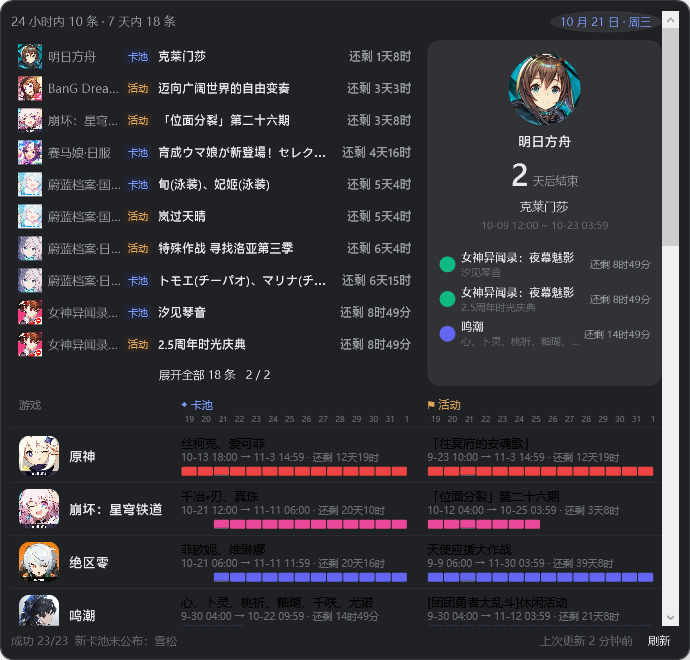
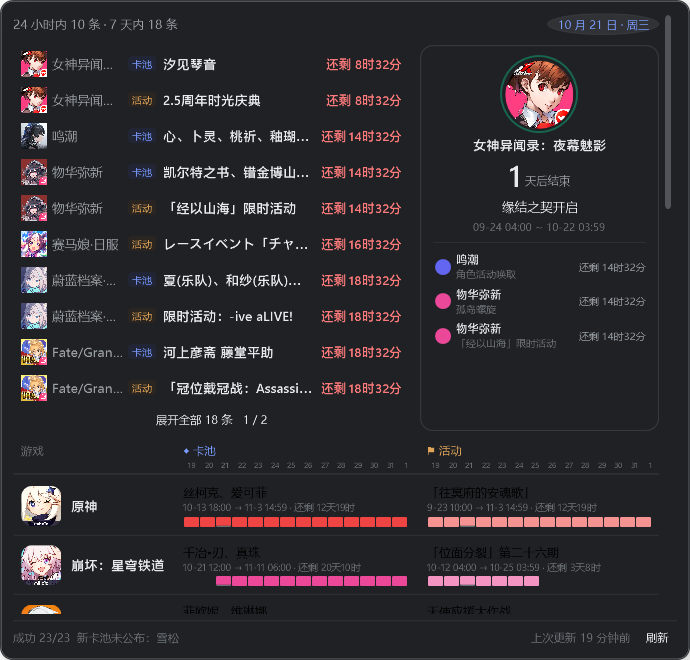
style: v0.1.18 字体、间距与截图链路精修
- 统一 Segoe UI Variable/雅黑回退；Display 渲染、布局取整、像素对齐
- newPanel 行高/焦点卡/表格/条形/底栏重排；独立细滚动条
- 截图链路修复 capture 模式隐藏窗口、隐藏窗口先 Show；更新 100/150 截图
- 版本 0.1.18

验证：dotnet build 0 警告 0 错误；npm test 34/34；npm run check 通过

diff --git a/src/GachaCalendar/Views/ScheduleView.xaml b/src/GachaCalendar/Views/ScheduleView.xaml
@@ -1,8 +1,67 @@
 <UserControl x:Class="GachaCalendar.Views.ScheduleView"
 			 xmlns="http://schemas.microsoft.com/winfx/2006/xaml/presentation"
 			 xmlns:x="http://schemas.microsoft.com/winfx/2006/xaml"
-			 FontFamily="Microsoft YaHei UI, Segoe UI, sans-serif">
+			 UseLayoutRounding="True"
+			 SnapsToDevicePixels="True"
+			 TextOptions.TextFormattingMode="Display"
+			 TextOptions.TextRenderingMode="ClearType"
+			 FontFamily="Segoe UI Variable Text, Microsoft YaHei UI, Segoe UI">
 	<UserControl.Resources>
+		<Style x:Key="SchedThinScrollBar" TargetType="ScrollBar">
+			<Setter Property="Width" Value="8" />
+			<Setter Property="Background" Value="Transparent" />
+			<Setter Property="Template">
+				<Setter.Value>
+					<ControlTemplate TargetType="ScrollBar">
+						<Grid Width="8" Background="Transparent">
+							<Track x:Name="PART_Track" IsDirectionReversed="True" Orientation="Vertical">
+								<Track.DecreaseRepeatButton>
+									<RepeatButton Command="{x:Static ScrollBar.PageUpCommand}" Opacity="0" Focusable="False" />
+								</Track.DecreaseRepeatButton>
+								<Track.Thumb>
+									<Thumb Width="8">
+										<Thumb.Template>
+											<ControlTemplate TargetType="Thumb">
+												<Border Background="{DynamicResource FgFaint}" CornerRadius="4" Opacity="0.65" Margin="1,2" />
+											</ControlTemplate>
+										</Thumb.Template>
+									</Thumb>
+								</Track.Thumb>
+								<Track.IncreaseRepeatButton>
+									<RepeatButton Command="{x:Static ScrollBar.PageDownCommand}" Opacity="0" Focusable="False" />
+								</Track.IncreaseRepeatButton>
+							</Track>
+						</Grid>
+					</ControlTemplate>
+				</Setter.Value>
+			</Setter>
+		</Style>
+		<Style x:Key="SchedScrollViewer" TargetType="ScrollViewer">
+			<Setter Property="Template">
+				<Setter.Value>
+					<ControlTemplate TargetType="ScrollViewer">
+						<Grid>
+							<Grid.ColumnDefinitions>
+								<ColumnDefinition Width="*" />
+								<ColumnDefinition Width="Auto" />
+							</Grid.ColumnDefinitions>
+							<ScrollContentPresenter x:Name="PART_ScrollContentPresenter" Grid.Column="0"
+													Margin="{TemplateBinding Padding}"
+													Content="{TemplateBinding Content}"
+													ContentTemplate="{TemplateBinding ContentTemplate}"
+													CanContentScroll="{TemplateBinding CanContentScroll}" />
+							<ScrollBar x:Name="PART_VerticalScrollBar" Grid.Column="1" Width="8"
+									   Orientation="Vertical" Cursor="Arrow"
+									   Style="{StaticResource SchedThinScrollBar}"
+									   Value="{Binding VerticalOffset, RelativeSource={RelativeSource TemplatedParent}, Mode=OneWay}"
+									   Maximum="{TemplateBinding ScrollableHeight}"
+									   ViewportSize="{TemplateBinding ViewportHeight}"
+									   Visibility="{TemplateBinding ComputedVerticalScrollBarVisibility}" />
+						</Grid>
+					</ControlTemplate>
+				</Setter.Value>
+			</Setter>
+		</Style>
 		<Style x:Key="SchedHint" TargetType="TextBlock">
 			<Setter Property="FontSize" Value="11" />
 			<Setter Property="Foreground" Value="{DynamicResource FgFaint}" />
@@ -22,6 +81,7 @@
 			<Setter Property="Foreground" Value="{DynamicResource FgDim}" />
 			<Setter Property="FontSize" Value="11" />
 			<Setter Property="Cursor" Value="Hand" />
+			<Setter Property="Focusable" Value="False" />
 			<Setter Property="Template">
 				<Setter.Value>
 					<ControlTemplate TargetType="Button">
@@ -39,16 +99,16 @@
 		</Style>
 	</UserControl.Resources>
 
-	<Grid Margin="10,10,10,8">
+	<Grid Margin="12,12,12,10">
 		<Grid.RowDefinitions>
 			<RowDefinition Height="*" />
 			<RowDefinition Height="Auto" />
 		</Grid.RowDefinitions>
 
-		<ScrollViewer Grid.Row="0" VerticalScrollBarVisibility="Auto" HorizontalScrollBarVisibility="Disabled">
+		<ScrollViewer Grid.Row="0" Style="{StaticResource SchedScrollViewer}" VerticalScrollBarVisibility="Auto" HorizontalScrollBarVisibility="Disabled">
 			<StackPanel>
 				<!-- 头部：总览 + 日期胶囊 -->
-				<Grid Margin="0,0,0,8">
+				<Grid Margin="0,0,0,10">
 					<TextBlock Text="{Binding GlanceText}" FontSize="12" Foreground="{DynamicResource FgDim}"
 							   VerticalAlignment="Center" />
 					<Border HorizontalAlignment="Right" Background="{DynamicResource ChipBg}" BorderBrush="{DynamicResource PanelBorder}"
@@ -60,14 +120,14 @@
 				<!-- 近期 + 悬停详情卡 -->
 				<Grid Margin="0,0,0,10">
 					<Grid.ColumnDefinitions>
-						<ColumnDefinition Width="64*" />
-						<ColumnDefinition Width="36*" />
+						<ColumnDefinition Width="63*" />
+						<ColumnDefinition Width="37*" />
 					</Grid.ColumnDefinitions>
 					<StackPanel Grid.Column="0" Margin="0,0,10,0" MouseEnter="OnUrgentAreaEnter" MouseLeave="OnUrgentAreaLeave">
 						<ItemsControl ItemsSource="{Binding Urgent}">
 							<ItemsControl.ItemTemplate>
 								<DataTemplate>
-									<Border Padding="6,4" CornerRadius="10" MouseEnter="OnUrgentEnter"
+									<Border Padding="8,5" CornerRadius="10" MouseEnter="OnUrgentEnter"
 											ToolTip="{Binding Tip}">
 										<Border.Style>
 											<Style TargetType="Border">
@@ -115,7 +175,7 @@
 													</Image.Style>
 												</Image>
 											</Grid>
-											<TextBlock Grid.Column="1" Text="{Binding GameName}" FontSize="12"
+											<TextBlock Grid.Column="1" Text="{Binding GameName}" FontSize="12.5"
 													   Foreground="{DynamicResource FgDim}" VerticalAlignment="Center"
 													   TextTrimming="CharacterEllipsis" Margin="5,0,0,0" />
 											<Border Grid.Column="2" CornerRadius="4" Padding="4,1" Margin="3,0" VerticalAlignment="Center">
@@ -156,10 +216,10 @@
 													</TextBlock>
 												</Grid>
 											</Border>
-											<TextBlock Grid.Column="3" Text="{Binding Show}" FontSize="12" FontWeight="SemiBold"
+											<TextBlock Grid.Column="3" Text="{Binding Show}" FontSize="13" FontWeight="SemiBold"
 													   VerticalAlignment="Center" Margin="3,0" TextTrimming="CharacterEllipsis"
 													   ToolTip="{Binding Tip}" />
-											<TextBlock Grid.Column="4" Text="{Binding WhenText}" FontSize="12" FontWeight="SemiBold"
+											<TextBlock Grid.Column="4" Text="{Binding WhenText}" FontSize="12.5" FontWeight="SemiBold"
 													   VerticalAlignment="Center" Margin="6,0,0,0">
 												<TextBlock.Style>
 													<Style TargetType="TextBlock">
@@ -196,12 +256,12 @@
 					</StackPanel>
 
 					<!-- 下一个截止卡（悬停近期行时切换） -->
-					<Border Grid.Column="1" Background="{DynamicResource ChipBg}" BorderBrush="{DynamicResource PanelBorder}"
-							BorderThickness="1" CornerRadius="12" Padding="10" VerticalAlignment="Stretch">
+					<Border Grid.Column="1" Background="{DynamicResource PanelBg}" BorderBrush="{DynamicResource PanelBorder}"
+							BorderThickness="1" CornerRadius="12" Padding="12" VerticalAlignment="Stretch">
 						<StackPanel>
-							<Grid Width="64" Height="64" HorizontalAlignment="Center" Margin="0,2,0,0">
+							<Grid Width="68" Height="68" HorizontalAlignment="Center" Margin="0,2,0,0">
 								<Ellipse Stroke="{Binding Focus.GameColor}" StrokeThickness="2" Opacity="0.45" Margin="-5" />
-								<Border CornerRadius="32" Background="{Binding Focus.GameColor}">
+								<Border CornerRadius="34" Background="{Binding Focus.GameColor}">
 									<Border.Style>
 										<Style TargetType="Border">
 											<Setter Property="Visibility" Value="Visible" />
@@ -212,7 +272,7 @@
 											</Style.Triggers>
 										</Style>
 									</Border.Style>
-									<TextBlock Text="{Binding Focus.IconGlyph}" FontSize="22" Foreground="White"
+									<TextBlock Text="{Binding Focus.IconGlyph}" FontSize="23" Foreground="White"
 											   HorizontalAlignment="Center" VerticalAlignment="Center" />
 								</Border>
 								<Image Source="{Binding Focus.Icon}" Stretch="UniformToFill">
@@ -227,20 +287,20 @@
 										</Style>
 									</Image.Style>
 									<Image.Clip>
-										<EllipseGeometry Center="32,32" RadiusX="32" RadiusY="32" />
+										<EllipseGeometry Center="34,34" RadiusX="34" RadiusY="34" />
 									</Image.Clip>
 								</Image>
 							</Grid>
-							<TextBlock Text="{Binding FocusGameName}" FontSize="13" FontWeight="SemiBold" HorizontalAlignment="Center"
+							<TextBlock Text="{Binding FocusGameName}" FontSize="13.5" FontWeight="SemiBold" HorizontalAlignment="Center"
 									   Margin="0,7,0,0" TextTrimming="CharacterEllipsis" />
 							<StackPanel Orientation="Horizontal" HorizontalAlignment="Center" Margin="0,2,0,0">
-								<TextBlock Text="{Binding Focus.FocusNumber}" FontSize="28" FontWeight="SemiBold" />
+								<TextBlock Text="{Binding Focus.FocusNumber}" FontSize="30" FontWeight="SemiBold" />
 								<TextBlock Text="{Binding Focus.FocusUnit}" FontSize="11" Foreground="{DynamicResource FgDim}"
 										   VerticalAlignment="Bottom" Margin="4,0,0,5" />
 							</StackPanel>
-							<TextBlock Text="{Binding FocusTitle}" FontSize="12" TextAlignment="Center" TextWrapping="Wrap"
-									   Margin="0,5,0,0" MaxHeight="34" />
-							<TextBlock Text="{Binding FocusDates}" FontSize="10" Foreground="{DynamicResource FgFaint}"
+							<TextBlock Text="{Binding FocusTitle}" FontSize="12.5" TextAlignment="Center" TextWrapping="Wrap"
+									   Margin="0,5,0,0" MaxHeight="36" />
+							<TextBlock Text="{Binding FocusDates}" FontSize="10.5" Foreground="{DynamicResource FgFaint}"
 									   TextAlignment="Center" TextWrapping="Wrap" Margin="0,4,0,0" />
 							<Separator Margin="0,8,0,6" Background="{DynamicResource Divider}" />
 							<ItemsControl ItemsSource="{Binding FocusOthers}">
@@ -336,7 +396,7 @@
 				<ItemsControl ItemsSource="{Binding Rows}">
 					<ItemsControl.ItemTemplate>
 						<DataTemplate>
-							<Border BorderBrush="{DynamicResource Divider}" BorderThickness="0,0,0,1" Padding="0,6">
+							<Border BorderBrush="{DynamicResource Divider}" BorderThickness="0,0,0,1" Padding="0,8">
 								<Border.Style>
 									<Style TargetType="Border">
 										<Style.Triggers>
@@ -397,7 +457,7 @@
 											<ItemsControl.ItemsPanel><ItemsPanelTemplate><UniformGrid Columns="14" /></ItemsPanelTemplate></ItemsControl.ItemsPanel>
 											<ItemsControl.ItemTemplate>
 												<DataTemplate>
-													<Border Height="9" Margin="0.5,0">
+													<Border Height="10" Margin="0.5,0">
 														<Border.Style>
 															<Style TargetType="Border">
 																<Setter Property="Background" Value="Transparent" />
@@ -428,7 +488,7 @@
 											<ItemsControl.ItemsPanel><ItemsPanelTemplate><UniformGrid Columns="14" /></ItemsPanelTemplate></ItemsControl.ItemsPanel>
 											<ItemsControl.ItemTemplate>
 												<DataTemplate>
-													<Border Height="9" Margin="0.5,0">
+													<Border Height="10" Margin="0.5,0">
 														<Border.Style>
 															<Style TargetType="Border">
 																<Setter Property="Background" Value="Transparent" />
@@ -484,18 +544,20 @@
 		</ScrollViewer>
 
 		<!-- 底栏常驻 -->
-		<Grid Grid.Row="1" Margin="0,4,0,0">
-			<Grid.ColumnDefinitions>
-				<ColumnDefinition Width="*" />
-				<ColumnDefinition Width="Auto" />
-				<ColumnDefinition Width="Auto" />
-			</Grid.ColumnDefinitions>
-			<TextBlock Text="{Binding ScrapeText}" FontSize="11" Foreground="{DynamicResource FgFaint}"
-					   TextTrimming="CharacterEllipsis" VerticalAlignment="Center" />
-			<TextBlock Grid.Column="1" Text="{Binding UpdatedAgo}" FontSize="11" Foreground="{DynamicResource FgFaint}"
-					   VerticalAlignment="Center" Margin="8,0" />
-			<Button Grid.Column="2" Content="刷新" Style="{StaticResource SchedLinkButton}" Click="OnRefresh"
-					Foreground="{DynamicResource Accent}" />
-		</Grid>
+		<Border Grid.Row="1" Margin="0,6,0,0" Padding="0,6,0,0" BorderBrush="{DynamicResource Divider}" BorderThickness="0,1,0,0">
+			<Grid>
+				<Grid.ColumnDefinitions>
+					<ColumnDefinition Width="*" />
+					<ColumnDefinition Width="Auto" />
+					<ColumnDefinition Width="Auto" />
+				</Grid.ColumnDefinitions>
+				<TextBlock Text="{Binding ScrapeText}" FontSize="11" Foreground="{DynamicResource FgFaint}"
+						   TextTrimming="CharacterEllipsis" VerticalAlignment="Center" />
+				<TextBlock Grid.Column="1" Text="{Binding UpdatedAgo}" FontSize="11" Foreground="{DynamicResource FgFaint}"
+						   VerticalAlignment="Center" Margin="8,0" />
+				<Button Grid.Column="2" Content="刷新" Style="{StaticResource SchedLinkButton}" Click="OnRefresh"
+						Foreground="{DynamicResource Accent}" />
+			</Grid>
+		</Border>
 	</Grid>
 </UserControl>

diff --git a/src/GachaCalendar/Views/SettingsWindow.xaml b/src/GachaCalendar/Views/SettingsWindow.xaml
@@ -5,9 +5,13 @@
 		Width="780" Height="780"
 		MinWidth="720" MinHeight="600"
 		WindowStartupLocation="CenterScreen"
+		UseLayoutRounding="True"
+		SnapsToDevicePixels="True"
+		TextOptions.TextFormattingMode="Display"
+		TextOptions.TextRenderingMode="ClearType"
 		Background="{DynamicResource PanelBg}"
 		Foreground="{DynamicResource Fg}"
-		FontFamily="Microsoft YaHei UI, Segoe UI, sans-serif">
+		FontFamily="Segoe UI Variable Text, Microsoft YaHei UI, Segoe UI">
 	<Window.Resources>
 		<Style x:Key="Card" TargetType="Border">
 			<Setter Property="Background" Value="{DynamicResource ChipBg}" />

diff --git a/src/GachaCalendar/Views/FlyoutWindow.xaml b/src/GachaCalendar/Views/FlyoutWindow.xaml
@@ -12,7 +12,11 @@
 		Topmost="True"
 		ResizeMode="NoResize"
 		WindowStartupLocation="Manual"
-		FontFamily="Microsoft YaHei UI, Segoe UI, sans-serif">
+		UseLayoutRounding="True"
+		SnapsToDevicePixels="True"
+		TextOptions.TextFormattingMode="Display"
+		TextOptions.TextRenderingMode="ClearType"
+		FontFamily="Segoe UI Variable Text, Microsoft YaHei UI, Segoe UI">
 	<Window.Resources>
 		<Style x:Key="DshIconButton" TargetType="Button">
 			<Setter Property="Width" Value="24" />

diff --git a/src/GachaCalendar/Views/DockStripWindow.xaml b/src/GachaCalendar/Views/DockStripWindow.xaml
@@ -12,6 +12,11 @@
 		ShowActivated="False"
 		Topmost="True"
 		WindowStartupLocation="Manual"
+		UseLayoutRounding="True"
+		SnapsToDevicePixels="True"
+		TextOptions.TextFormattingMode="Display"
+		TextOptions.TextRenderingMode="ClearType"
+		FontFamily="Segoe UI Variable Text, Microsoft YaHei UI, Segoe UI"
 		Focusable="False">
 	<Border x:Name="Shell"
 			CornerRadius="13"

diff --git a/src/GachaCalendar/App.xaml.cs b/src/GachaCalendar/App.xaml.cs
@@ -20,6 +20,7 @@ public partial class App : System.Windows.Application
 	public MainViewModel Vm { get; } = new();
 	public string? CurrentDataPath { get; private set; }
 	public EngineHostClient? Engine => _engine;
+	public bool IsCaptureMode { get; private set; }
 
 	private readonly SettingsStore _settingsStore = new();
 	private SnapshotStore? _snapshots;
@@ -96,7 +97,10 @@ public partial class App : System.Windows.Application
 		if (e.Args.Contains("--show-settings")) ScheduleSettings(2500);
 		var captureIndex = Array.IndexOf(e.Args, "--capture-ui");
 		if (captureIndex >= 0 && captureIndex + 1 < e.Args.Length)
+		{
+			IsCaptureMode = true;
 			ScheduleUiCapture(e.Args[captureIndex + 1]);
+		}
 	}
 
 	private void ScheduleUiCapture(string outDir)
@@ -123,6 +127,11 @@ public partial class App : System.Windows.Application
 
 	private static void CaptureWindow(Window window, string outDir, string prefix)
 	{
+		if (!window.IsVisible)
+		{
+			window.Show();
+			window.Activate();
+		}
 		window.UpdateLayout();
 		var width = window.ActualWidth;
 		var height = window.ActualHeight;

diff --git a/src/GachaCalendar/Views/FlyoutWindow.xaml.cs b/src/GachaCalendar/Views/FlyoutWindow.xaml.cs
@@ -25,7 +25,7 @@ public partial class FlyoutWindow : Window
 		};
 		Deactivated += (_, _) =>
 		{
-			if (App.Instance is { IsShuttingDown: false } && IsVisible) Hide();
+			if (App.Instance is { IsShuttingDown: false, IsCaptureMode: false } && IsVisible) Hide();
 		};
 		PreviewKeyDown += (_, e) =>
 		{

diff --git a/docs/04-路线图.md b/docs/04-路线图.md
@@ -192,7 +192,16 @@ Fluent/DSH 风格外观已列入 [BACKLOG.md](../BACKLOG.md)。
 - [x] 设置页下拉项内边距
 - [ ] 同格多档期探头展开
 
-## v0.1.18 · 任务栏体验打磨
+## v0.1.18 · 字体与间距精修（2026-10-21）
+
+- [x] 统一 Segoe UI Variable + 雅黑回退；Display 渲染/布局取整/像素对齐
+- [x] newPanel 行高、焦点卡白底细环、表格行距、条形加粗、底栏分隔
+- [x] newPanel 独立细滚动条（深色）
+- [x] 截图工具修复（capture 模式不隐藏、隐藏窗口先 Show）
+- [x] 更新浅/深 newPanel、主面板、设置页 100/150 截图
+- [ ] 同格多档期探头展开
+
+## v0.1.19 · 任务栏体验打磨
 
 - [ ] 多显示器：主屏 / 每屏一份（设置项）
 - [ ] 任务栏自动隐藏时跟随（贴屏幕边缘而非消失）
@@ -202,7 +211,7 @@ Fluent/DSH 风格外观已列入 [BACKLOG.md](../BACKLOG.md)。
 - [ ] 点击外部关闭面板、Esc、快捷键（可选 Win+Alt+G）
 - [ ] 电源/锁屏/睡眠恢复后的任务栏重定位
 
-## v0.1.19 · 分发工程化
+## v0.1.20 · 分发工程化
 
 - [ ] `publish` 脚本：自包含 single-file zip + 框架依赖 zip
 - [ ] 安装包（Inno Setup 或 MSIX）：开始菜单、卸载清理自启项
@@ -211,7 +220,7 @@ Fluent/DSH 风格外观已列入 [BACKLOG.md](../BACKLOG.md)。
 - [ ] 性能预算：空闲内存 ≤ 120MB、CPU ≤ 0.1%、启动 ≤ 2s
 - [ ] 首次运行引导：数据从哪来、如何刷新、如何关掉原生小组件避免重叠
 
-## v0.1.20 · 商店与打磨
+## v0.1.21 · 商店与打磨
 
 - [ ] 代码签名（SmartScreen）
 - [ ] Microsoft Store / MSIX 上架评估

diff --git a/CHANGELOG.md b/CHANGELOG.md
@@ -1,5 +1,14 @@
 # CHANGELOG
 
+## v0.1.18 · 2026-10-21
+
+- 字体渲染精修：主面板/newPanel/设置/常驻条统一 Segoe UI Variable + 雅黑回退，
+  开启 Display 文本渲染、布局取整与设备像素对齐
+- newPanel 间距/层级重排：近期行更高、焦点卡白底+细环、表格行距/条形加粗、底栏分隔线
+- newPanel 使用独立细滚动条，深色下不再出现系统浅色滚动条
+- 截图工具修复：capture 模式不自动隐藏窗口；隐藏窗口先 Show 再渲染，100/150 截图不再空白
+- 更新浅/深 newPanel、主面板、设置页截图；版本 0.1.18
+
 ## v0.1.17 · 2026-10-21
 
 - newPanel 焦点卡图标外圈加主题色细环，层级更清晰

diff --git a/README.md b/README.md
@@ -50,7 +50,7 @@
 | 深浅色 token / 视觉验收清单 | ✅ v0.1.10（[验收清单](docs/11-DSH面板复刻验收.md)） |
 | 实验性 newPanel（日程视图） | 🚧 v0.1.12 基础版（设置页可开启） |
 | 颜色取色器 / DPI 截图 / 内置 Node 打包 | ✅ v0.1.13–0.1.14（`tools/publish.ps1`） |
-| 视觉打磨 / 新控件 / 小屏设置窗口 | ✅ v0.1.16 |
+| 视觉打磨 / 新控件 / 小屏设置窗口 | ✅ v0.1.16–0.1.18 |
 | Fluent / DSH 交互细节与视觉回归 | 📋 待办（[#1](https://github.com/EastMG/gacha-calendar/issues/1) / [BACKLOG.md](BACKLOG.md)） |
 | 多显示器、轮播、安装包 | 🚧 v0.1.10+（见[路线图](docs/04-路线图.md)） |
 
